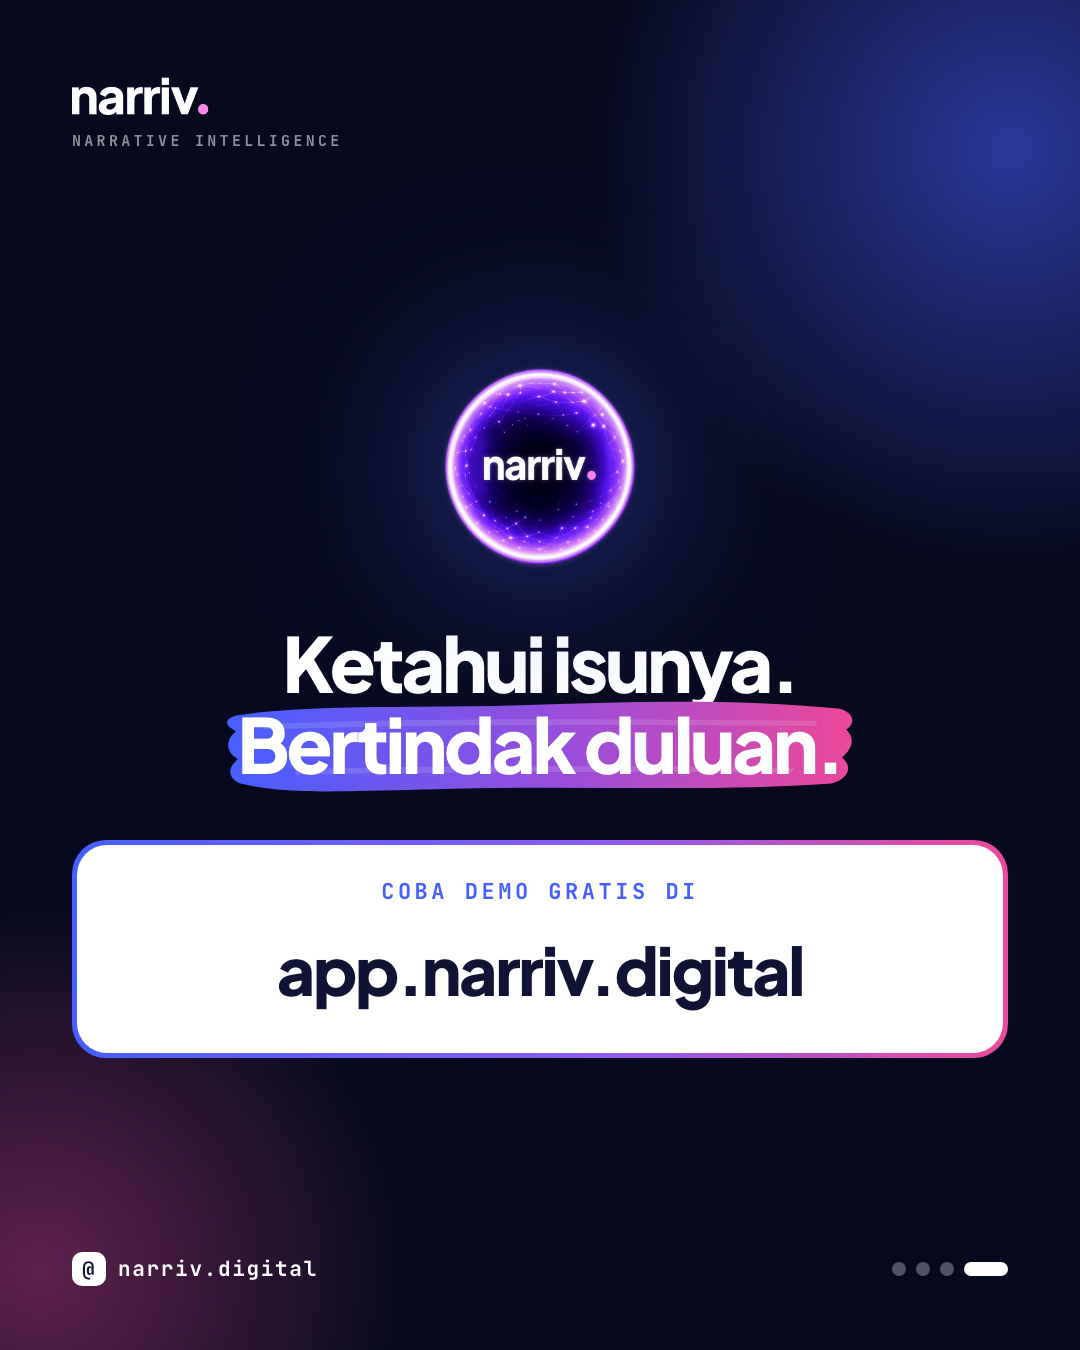
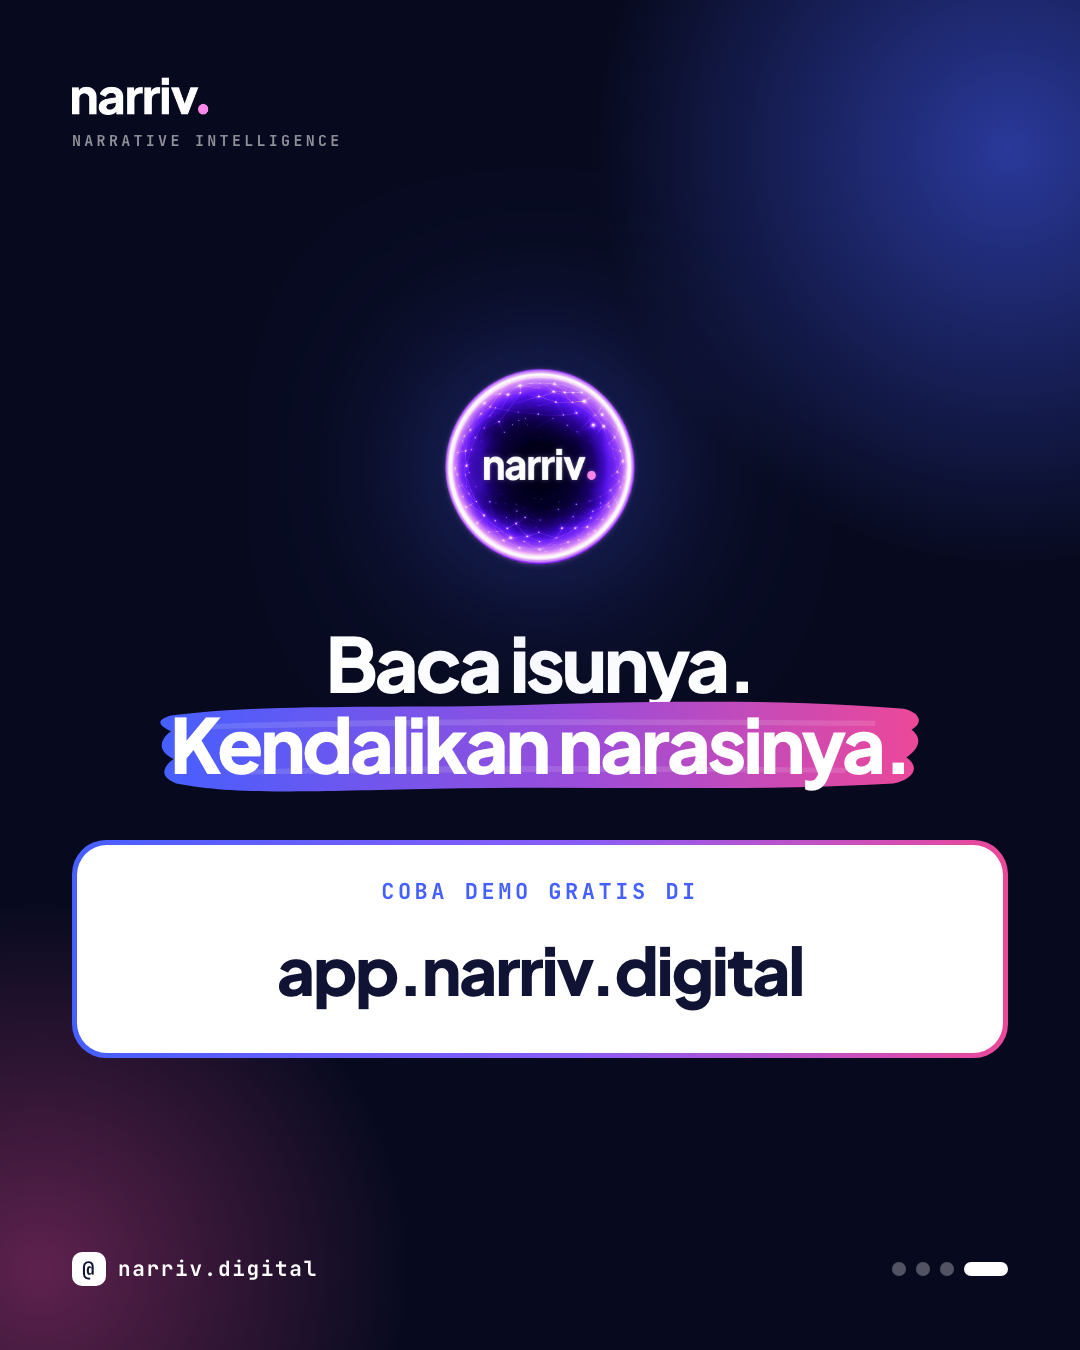
Education closing line: Baca isunya. Kendalikan narasinya.

Changed region(s): [[0.1528, 0.4667, 0.8556, 0.5911]]

diff --git a/frontend/app/pitch/social/edu/page.tsx b/frontend/app/pitch/social/edu/page.tsx
@@ -83,7 +83,7 @@ const closing = (_topic: string): Slide => ({
     <>
       <img src="/brand/logo-bulat-nv.webp" alt="" style={{ alignSelf: "center", width: 230, height: 230, filter: "drop-shadow(0 0 90px rgba(70,95,255,.6))" }} />
       <div style={{ marginTop: 40, textAlign: "center" }}>
-        <p style={{ margin: 0, fontSize: 76, lineHeight: 1.06, fontWeight: 800, letterSpacing: "-0.045em" }}>Ketahui isunya. <Brush>Bertindak duluan.</Brush></p>
+        <p style={{ margin: 0, fontSize: 76, lineHeight: 1.06, fontWeight: 800, letterSpacing: "-0.045em" }}>Baca isunya. <Brush>Kendalikan narasinya.</Brush></p>
       </div>
       {/* The demo address, big and unmissable. */}
       <div style={{ marginTop: 56, padding: 5, borderRadius: 34, background: GRAD }}>
